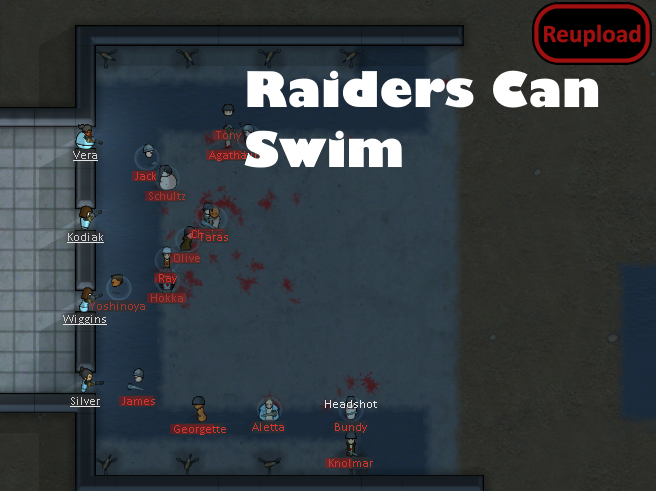
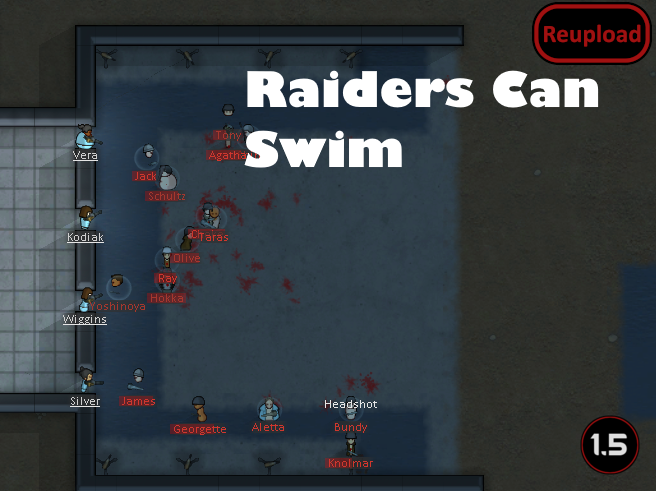
Mod updated for 1.5 and passed autotests

Changed region(s): [[0.8841, 0.8248, 0.9756, 0.9776]]

diff --git a/Source/RaidersCanSwim/RaidersCanSwim.cs b/Source/RaidersCanSwim/RaidersCanSwim.cs
@@ -9,15 +9,9 @@ namespace Swimming;
 [StaticConstructorOnStartup]
 public static class RaidersCanSwim
 {
-    public static readonly List<TerrainDef> DeepWaterDefs = new List<TerrainDef>
-    {
-        TerrainDefOf.WaterDeep, TerrainDefOf.WaterOceanDeep
-    };
+    public static readonly List<TerrainDef> DeepWaterDefs = [TerrainDefOf.WaterDeep, TerrainDefOf.WaterOceanDeep];
 
-    public static readonly List<string> DeepWaterLabels = new List<string>
-    {
-        "deep water", "deep ocean water"
-    };
+    public static readonly List<string> DeepWaterLabels = ["deep water", "deep ocean water"];
 
     static RaidersCanSwim()
     {
@@ -25,7 +19,7 @@ public static class RaidersCanSwim
         harmonyInstance.PatchAll(Assembly.GetExecutingAssembly());
         Log.Message(
             "SS Raiders Can Swim Initialized. Patches:\n" +
-            "(Prefix non-destructive) Verse.PawnRenderer.RenderPawnInternal Overload with 7 parameters\n" +
+            "(Prefix non-destructive) Verse.PawnRenderNodeWorker_Body.CanDrawNow\n" +
             "(Transpiler infix injection (brtrue)): Verse.Graphic_Shadow.DrawWorker\n" +
             "(Transpiler infix injection (ldc.r4 1))Verse.ShotReport.get_FactorFromPosture\n\n");
     }

diff --git a/Source/RaidersCanSwim/Patch_Shadows.cs b/Source/RaidersCanSwim/Patch_Shadows.cs
@@ -18,7 +18,7 @@ internal static class Patch_Shadows
             var instruction = instructionsList[i];
             yield return instruction;
             if (instruction.opcode != OpCodes.Brtrue || (MethodInfo)instructionsList[i - 1].operand !=
-                typeof(RoofGrid).GetMethod("Roofed", new[] { typeof(IntVec3) }))
+                typeof(RoofGrid).GetMethod("Roofed", [typeof(IntVec3)]))
             {
                 continue;
             }
@@ -27,7 +27,7 @@ internal static class Patch_Shadows
             yield return new CodeInstruction(OpCodes.Ldarg_1); //First argument for both our method and its own
             yield return
                 new CodeInstruction(OpCodes.Ldarg_S,
-                    (byte)4); //Second argument for our method, fourth argument for its own: Thing thing
+                    (byte)4); //Second argument for our method, fourth argument for its own: Thing
             yield return
                 new CodeInstruction(OpCodes.Call,
                     typeof(Patch_Shadows).GetMethod("SatisfiesNoShadow")); //Injected code

diff --git a/Source/RaidersCanSwim/Patch_PawnRenderNodeWorker_Body.cs b/Source/RaidersCanSwim/Patch_PawnRenderNodeWorker_Body.cs
@@ -3,12 +3,17 @@ using Verse;
 
 namespace Swimming;
 
-[HarmonyPatch(typeof(PawnRenderer), "RenderPawnInternal")]
-internal static class Patch_PawnRenderer
+[HarmonyPatch(typeof(PawnRenderNodeWorker_Body), "CanDrawNow")]
+internal static class Patch_PawnRenderNodeWorker_Body
 {
-    private static void Prefix(ref bool renderBody, PawnRenderer __instance)
+    private static void Postfix(PawnDrawParms parms, ref bool __result)
     {
-        var pawn = Traverse.Create(__instance).Field("pawn").GetValue<Pawn>();
+        if (!__result)
+        {
+            return;
+        }
+
+        var pawn = parms.pawn;
         if (pawn == null || pawn.Dead || pawn.Map == null || !pawn.RaceProps.Humanlike)
         {
             return;
@@ -26,6 +31,6 @@ internal static class Patch_PawnRenderer
             return;
         }
 
-        renderBody = false;
+        __result = false;
     }
 }

diff --git a/Source/RaidersCanSwim/Patch_ShotReport.cs b/Source/RaidersCanSwim/Patch_ShotReport.cs
@@ -26,7 +26,7 @@ internal static class Patch_ShotReport
             {
                 yield return new CodeInstruction(OpCodes.Ldarg_0);
                 yield return new CodeInstruction(OpCodes.Ldflda, AccessTools.Field(typeof(ShotReport), "target"));
-                //Since reflection doesnt work for this, I'm manually loading the private variable "target" with IL
+                //Since reflection doesn't work for this, I'm manually loading the private variable "target" with IL
                 yield return new CodeInstruction(OpCodes.Call,
                     typeof(TargetInfo).GetProperty("Thing")?.GetGetMethod());
                 yield return new CodeInstruction(OpCodes.Call,

diff --git a/README.md b/README.md
@@ -24,11 +24,13 @@ People can swim through deep water at 4.2% move speed. No other stats are affect
 
 -  See if the the error persists if you just have this mod and its requirements active.
 -  If not, try adding your other mods until it happens again.
--  Post your error-log using https://steamcommunity.com/workshop/filedetails/?id=818773962]HugsLib and command Ctrl+F12
+-  Post your error-log using https://steamcommunity.com/workshop/filedetails/?id=818773962]HugsLib or the standalone https://steamcommunity.com/sharedfiles/filedetails/?id=2873415404]Uploader and command Ctrl+F12
 -  For best support, please use the Discord-channel for error-reporting.
 -  Do not report errors by making a discussion-thread, I get no notification of that.
 -  If you have the solution for a problem, please post it to the GitHub repository.
+-  Use https://github.com/RimSort/RimSort/releases/latest]RimSort to sort your mods
 
 
 
+https://steamcommunity.com/sharedfiles/filedetails/changelog/2169310348]![Image](https://img.shields.io/github/v/release/emipa606/SSRaidersCanSwim?label=latest%20version&style=plastic&color=9f1111&labelColor=black)
 
